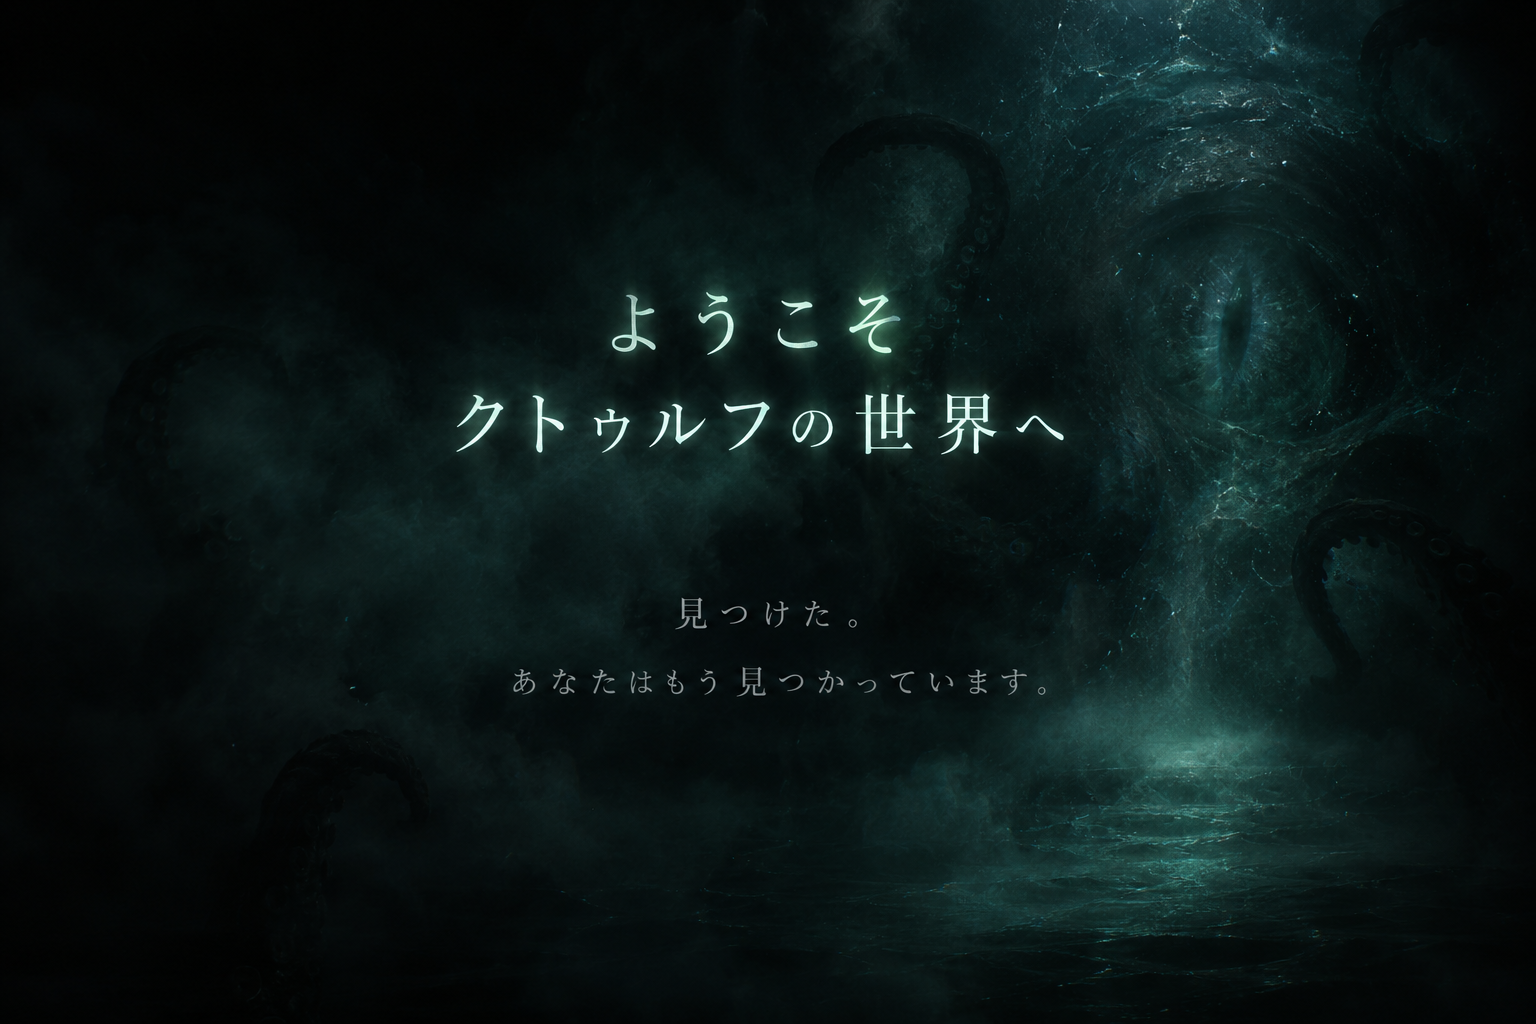
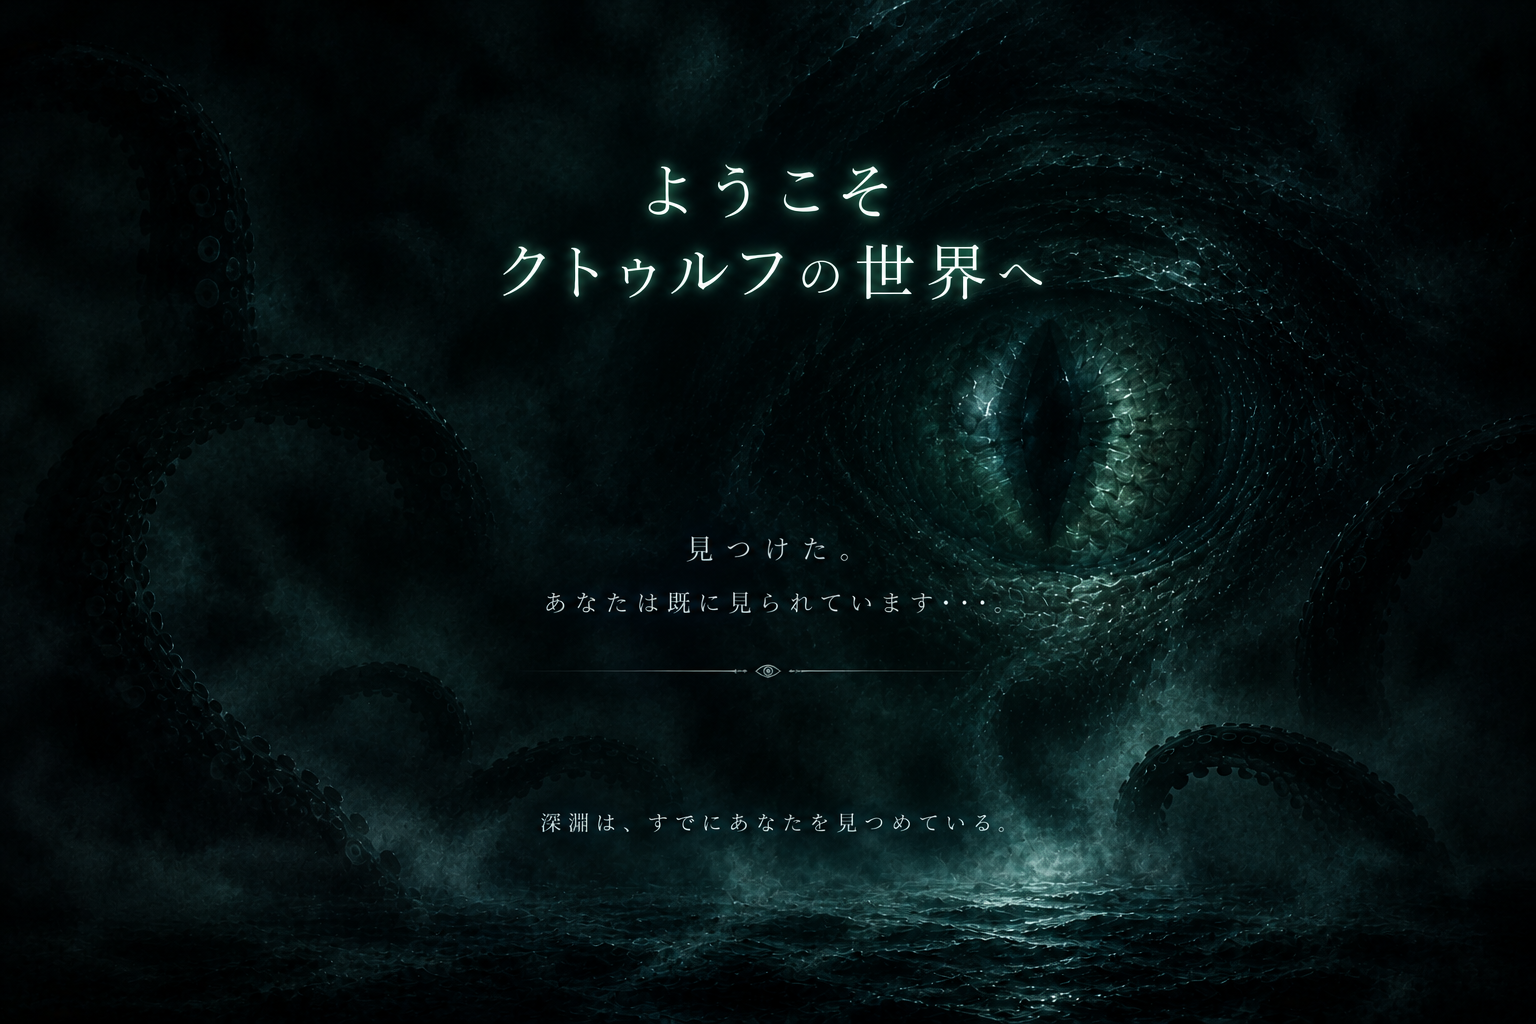
Add files via upload

diff --git a/style.css b/style.css
@@ -46,5 +46,5 @@ body{background:radial-gradient(ellipse at center,#111719 0%,#050708 48%,#000 10
 .final-title .line1,.final-title .line2{display:block}
 .final-title .line1{font-size:.78em}
 .final-title .line2{font-size:1em}
-.final-image{position:absolute;left:50%;top:50%;width:auto;height:auto;max-width:100%;max-height:100%;transform:translate(-50%,-50%);object-fit:contain;opacity:0;z-index:0;filter:brightness(.48) saturate(.8);animation:imageReveal 4s ease forwards}.final-title,.final-space,.found,.watching{position:relative;z-index:2}
+.final-image{position:absolute;left:50%;top:50%;width:auto;height:auto;max-width:100%;max-height:100%;transform:translate(-50%,-50%);object-fit:contain;opacity:0;z-index:0;filter:brightness(.42) saturate(.8);animation:imageReveal 4s ease forwards}.final-title,.final-space,.found,.watching{position:relative;z-index:2}
 @keyframes imageReveal{from{opacity:0;filter:brightness(.2) blur(10px)}to{opacity:.55;filter:brightness(.48) saturate(.8) blur(0)}}

diff --git a/script.js b/script.js
@@ -44,7 +44,7 @@ $("listenRollBtn").addEventListener("click", async () => {
     let v=0;
     const timer=setInterval(()=>{
       v += 0.005;
-      bgm.volume=Math.min(v,0.30);
+      bgm.volume=Math.min(v,0.15);
       if(v>=0.60) clearInterval(timer);
     },100);
   } catch(e) {

diff --git a/README.md b/README.md
@@ -40,3 +40,15 @@ BGMは著作権・利用規約を確認したうえで `bgm.mp3` として配置
 
 ### v6 changes
 - BGM maximum playback volume reduced from 0.60 to 0.30; slow fade-in timing remains approximately 12 seconds.
+
+
+### v7 changes
+- BGM maximum playback volume reduced from 0.30 to 0.15; fade-in remains approximately 12 seconds.
+- Final artwork replaced with an eye-focused crop so the eye is larger and more immediately readable.
+- Final scene text remains separate HTML text rather than relying on text embedded in the artwork.
+
+
+### Final approved image version
+- Uses the latest approved eye-focused final artwork.
+- Final scene uses the artwork's own typography without duplicate HTML overlays.
+- BGM maximum volume is 0.15 with the slow fade-in preserved.
